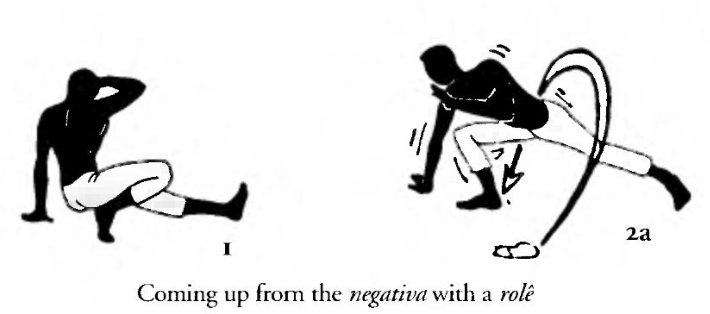
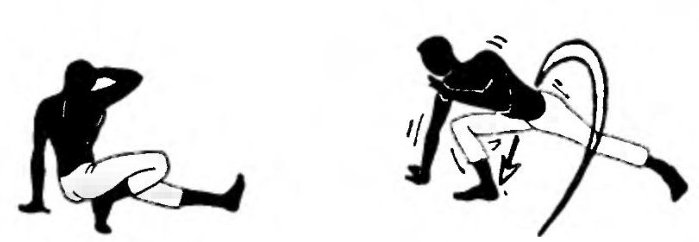
add nestor

Changed region(s): [[0.0, 0.1157, 0.9914, 0.9835]]

diff --git a/ponteira.html b/ponteira.html
@@ -2,22 +2,14 @@
 
 <h1>Ponteira <i>tip</i></h1>
 
-<h2>Ponteira alta <i>high tip</i></h2>
+<img src="images/nestor/ponteira.jpg" title="Drawing from The Little Capoeira Book, by Nestor Capoeira">
 
-<img src="images/gif/Ponteira-Alta.gif">
-
-<h2>Ponteira média <i>middle tip</i></h2>
-
-<img src="images/gif/Ponteira-Media.gif">
-
-<!-- <h2>Ponteira reta</h2>
-<img src="images/gif/Ponteira-Reta.gif"> -->
+<a href="images/alex/encre_0605.jpg"><img src="images/alex/encre_0605.jpg"></a>
 
 <h2>Gallery</h2>
 
 <div class="gallery">
   <a href="images/alex/encre_0411.jpg"><img src="images/alex/encre_0411.jpg"></a>
-  <a href="images/alex/encre_0605.jpg"><img src="images/alex/encre_0605.jpg"></a>
   <a href="images/alex/encre_0195.jpg"><img src="images/alex/encre_0195.jpg"></a>
 </div>
 
@@ -36,3 +28,16 @@
 <iframe width="560" height="315" src="https://www.youtube.com/embed/aWjz5NgzhTw" title="YouTube video player" frameborder="0" allow="accelerometer; autoplay; clipboard-write; encrypted-media; gyroscope; picture-in-picture; web-share" allowfullscreen></iframe>
 
 <iframe width="560" height="315" src="https://www.youtube.com/embed/JD6EnNO3kSU" title="YouTube video player" frameborder="0" allow="accelerometer; autoplay; clipboard-write; encrypted-media; gyroscope; picture-in-picture; web-share" allowfullscreen></iframe>
+
+<h2>Variations</h2>
+
+<h3>Ponteira alta <i>high tip</i></h3>
+
+<img src="images/gif/Ponteira-Alta.gif">
+
+<h3>Ponteira média <i>middle tip</i></h3>
+
+<img src="images/gif/Ponteira-Media.gif">
+
+<!-- <h3>Ponteira reta</h3>
+<img src="images/gif/Ponteira-Reta.gif"> -->

diff --git a/index.html b/index.html
@@ -65,7 +65,7 @@
       <a href="meia-lua-queda-de-rins.html" target="frame">Meia lua de compasso<br>con queda de rins</a>
       <a href="meia-lua-reversao.html" target="frame">Meia lua reversão</a>
       <a href="meia-lua-presa.html" target="frame">Meia lua presa</a>
-      <a href="meia-lua-solta.html" target="frame">Meia lua de compasso pulando</a>
+      <a href="meia-lua-de-compasso-pulando.html" target="frame">Meia lua de compasso pulando</a>
       <a href="meia-lua-de-compasso-sem-mao.html" target="frame">Meia lua de compasso sem mão</a>
       <a href="meia-lua-de-compasso-pulando-sem-mao.html" target="frame">Meia lua de compasso pulando sem mão <i>(Butterfly kick)</i></a>
       <a href="meia-lua-dupla.html" target="frame">Meia lua dupla</a>
@@ -158,8 +158,8 @@
       <a href="tesoura-de-costas.html" target="frame">Tesoura de costas</a>
       <a href="tesoura-de-frente.html" target="frame">Tesoura de frente</a>
       <a href="tesoura-angola.html" target="frame">Tesoura de Angola</a>
-      <a href="passagem-da-tesoura.html" target="frame">Passagem de tesoura</a>
       <a href="au-tesoura.html" target="frame">Aú tesoura</a>
+      <a href="passagem-da-tesoura.html" target="frame">Passagem de tesoura</a>
 
       <h3>Com mãos <i>(with hands)</i></h3>
       <a href="rasteira-de-mao.html" target="frame">Rasteira de mão</a>

diff --git a/role.html b/role.html
@@ -2,8 +2,7 @@
 
 <h1>Rolê <i>roll</i></h1>
 
-<!-- <img src="images/gif/Role.gif"> -->
-<img src="images/gif/Queda-de-Esquiva.gif">
+<img src="images/gif/Role.gif">
 
 <img src="images/alex/encre_0553.jpg">
 
@@ -24,6 +23,14 @@
 <iframe width="560" height="315" src="https://www.youtube.com/embed/gyT9kHkeCsk" title="YouTube video player" frameborder="0" allow="accelerometer; autoplay; clipboard-write; encrypted-media; gyroscope; picture-in-picture; web-share" allowfullscreen></iframe>
 
 <iframe width="560" height="315" src="https://www.youtube.com/embed/Euf7POqcxo0" title="YouTube video player" frameborder="0" allow="accelerometer; autoplay; clipboard-write; encrypted-media; gyroscope; picture-in-picture; web-share" allowfullscreen></iframe>
+
+<h2>Esquiva to Rolê</h2>
+
+<img src="images/gif/Queda-de-Esquiva.gif">
+
+<h2>Negativa to Rolê</h2>
+
+<img src="images/nestor/negativa-role.jpg" title="Drawing from The Little Capoeira Book, by Nestor Capoeira">
 
 <!-- <h2>Rolê Reverso</h2>
 <img src="images/gif/Role-vai-e-volta.gif"> -->

diff --git a/queixada-de-frente.html b/queixada-de-frente.html
@@ -1,11 +1,13 @@
 <link rel="stylesheet" href="css/style-iframe.css">
 
-<h1>Queixada de frente <i>front jaw kick</i></h1>
-<h3>also: Meia-lua de frente reversão <i>reversed front crescent</i>, Queixada de trás <i>back jaw kick</i></h3>
+<h1>Queixada de frente <i>front jaw</i></h1>
+<h3>also: Meia-lua de frente reversão <i>reversed front crescent</i></h3>
 
 <img src="images/gif/Queixada-Angola.gif">
+<img src="images/nestor/queixada-de-frente.jpg" title="Drawing from The Little Capoeira Book, by Nestor Capoeira">
+<!-- <img src="images/queixada.gif"> -->
 
-<img src="images/queixada.gif">
+<h2>Tutorials</h2>
 
 <iframe width="560" height="315" src="https://www.youtube.com/embed/k4K3EEu8fkA" title="YouTube video player" frameborder="0" allow="accelerometer; autoplay; clipboard-write; encrypted-media; gyroscope; picture-in-picture; web-share" allowfullscreen></iframe>
 

diff --git a/queixada.html b/queixada.html
@@ -5,6 +5,8 @@
 
 <img src="images/gif/Queixada.gif">
 
+<img src="images/nestor/queixada.jpg" title="Drawing from The Little Capoeira Book, by Nestor Capoeira">
+
 <img src="images/alex/Capoeira-illustration-0957.jpg">
 
 <h2>Gallery</h2>
@@ -29,5 +31,7 @@
 <iframe width="560" height="315" src="https://www.youtube.com/embed/J14AEw2wbTA" title="YouTube video player" frameborder="0" allow="accelerometer; autoplay; clipboard-write; encrypted-media; gyroscope; picture-in-picture; web-share" allowfullscreen></iframe>
 
 <h2>Variations</h2>
+
+<h3>Queixada pulada <i>jumping jaw kick</i></h3>
 
 <iframe width="560" height="315" src="https://www.youtube.com/embed/57QH5WAAwmo" title="YouTube video player" frameborder="0" allow="accelerometer; autoplay; clipboard-write; encrypted-media; gyroscope; picture-in-picture; web-share" allowfullscreen></iframe>

diff --git a/meia-lua-de-compasso-pulando.html b/meia-lua-de-compasso-pulando.html
@@ -6,6 +6,8 @@
 <img src="images/gif/Meia-lua-de-Compasso.gif">
 <img src="images/nestor/meia-lua-pulada.jpg" title="Drawing from The Little Capoeira Book, by Nestor Capoeira">
 
+<h2>Tutorials</h2>
+
 <iframe width="560" height="315" src="https://www.youtube.com/embed/N_k81GDQ6Cc" title="YouTube video player" frameborder="0" allow="accelerometer; autoplay; clipboard-write; encrypted-media; gyroscope; picture-in-picture; web-share" allowfullscreen></iframe>
 
 <iframe width="560" height="315" src="https://www.youtube.com/embed/kXNupIfYgs4" title="YouTube video player" frameborder="0" allow="accelerometer; autoplay; clipboard-write; encrypted-media; gyroscope; picture-in-picture; web-share" allowfullscreen></iframe>

diff --git a/pisao.html b/pisao.html
@@ -33,3 +33,8 @@
 <iframe width="560" height="315" src="https://www.youtube.com/embed/8oDNH8714oE" title="YouTube video player" frameborder="0" allow="accelerometer; autoplay; clipboard-write; encrypted-media; gyroscope; picture-in-picture; web-share" allowfullscreen></iframe>
 
 <iframe width="560" height="315" src="https://www.youtube.com/embed/vojXdp_0LHM" title="YouTube video player" frameborder="0" allow="accelerometer; autoplay; clipboard-write; encrypted-media; gyroscope; picture-in-picture; web-share" allowfullscreen></iframe>
+
+<h2>Variations</h2>
+<h3>Cruzado</h3>
+
+<img src="images/nestor/pisao-cruzado.jpg" title="Drawing from The Little Capoeira Book, by Nestor Capoeira">

diff --git a/passagem-da-tesoura.html b/passagem-da-tesoura.html
@@ -2,6 +2,10 @@
 
 <h1>Passagem da tesoura <i>scissor pass</i></h1>
 
+<img src="images/nestor/passagem-da-tesoura.jpg" title="Drawing from The Little Capoeira Book, by Nestor Capoeira">
+
 <img src="images/carybe/passagem-da-tesoura.png" title="Jogo de capoeira, Carybé (1951)">
+
+<h2>Tutorials</h2>
 
 <iframe width="560" height="315" src="https://www.youtube.com/embed/SYfmhgPXsss" title="YouTube video player" frameborder="0" allow="accelerometer; autoplay; clipboard-write; encrypted-media; gyroscope; picture-in-picture; web-share" allowfullscreen></iframe>

diff --git a/rasteira-de-frente.html b/rasteira-de-frente.html
@@ -1,9 +1,10 @@
 <link rel="stylesheet" href="css/style-iframe.css">
 
 <h1>Rasteira de frente <i>forward sweep</i></h1>
-<h3>also: Rasteira do chão <i>ground sweep</i>, Encruzilhada <i>Crossroads</i></h3>
+<h3>also: Rasteira <i>sweep</i>, Rasteira do chão <i>ground sweep</i>, Encruzilhada <i>Crossroads</i></h3>
 
 <img src="images/gif/Rasteira-do-Chao.gif">
+<img src="images/nestor/rasteira.jpg" title="Drawing from The Little Capoeira Book, by Nestor Capoeira">
 
 <img src="images/alex/Capoeira-illustration-0798.jpg">
 

diff --git a/tesoura-de-costas.html b/tesoura-de-costas.html
@@ -2,7 +2,11 @@
 
 <h1>Tesoura de costas <i>back scissors</i></h1>
 
+<img src="images/nestor/tesoura-de-costas.jpg" title="Drawing from The Little Capoeira Book, by Nestor Capoeira">
+
 <img src="images/alex/encre_0602.jpg">
+
+<h2>Tutorials</h2>
 
 <iframe width="560" height="315" src="https://www.youtube.com/embed/KaeK60Q1JiY" title="YouTube video player" frameborder="0" allow="accelerometer; autoplay; clipboard-write; encrypted-media; gyroscope; picture-in-picture; web-share" allowfullscreen></iframe>
 

diff --git a/s-dobrado.html b/s-dobrado.html
@@ -4,7 +4,11 @@
 
 <img src="images/gif/S-dobrado-+-Chapeu-de-Couro.gif">
 
+<img src="images/nestor/s-dobrado.jpg" title="Drawing from The Little Capoeira Book, by Nestor Capoeira">
+
 <img src="images/alex/encre_0585.jpg">
+
+<h2>Tutorials</h2>
 
 <iframe width="560" height="315" src="https://www.youtube.com/embed/CRg2SRqszWk" title="YouTube video player" frameborder="0" allow="accelerometer; autoplay; clipboard-write; encrypted-media; gyroscope; picture-in-picture; web-share" allowfullscreen></iframe>
 

diff --git a/negativa-derrubando.html b/negativa-derrubando.html
@@ -2,8 +2,8 @@
 
 <h1>Negativa derrubando <i>negative takedown</i></h1>
 
-<!-- <img src="images/negativa-regional.gif"> -->
-<img src="images/negativa-derrubando.gif">
+<img src="images/negativa-regional.gif">
+<img src="images/nestor/negativa-derrubando.jpg" title="Drawing from The Little Capoeira Book, by Nestor Capoeira">
 
 <img src="images/alex/encre_0274.jpg">
 
